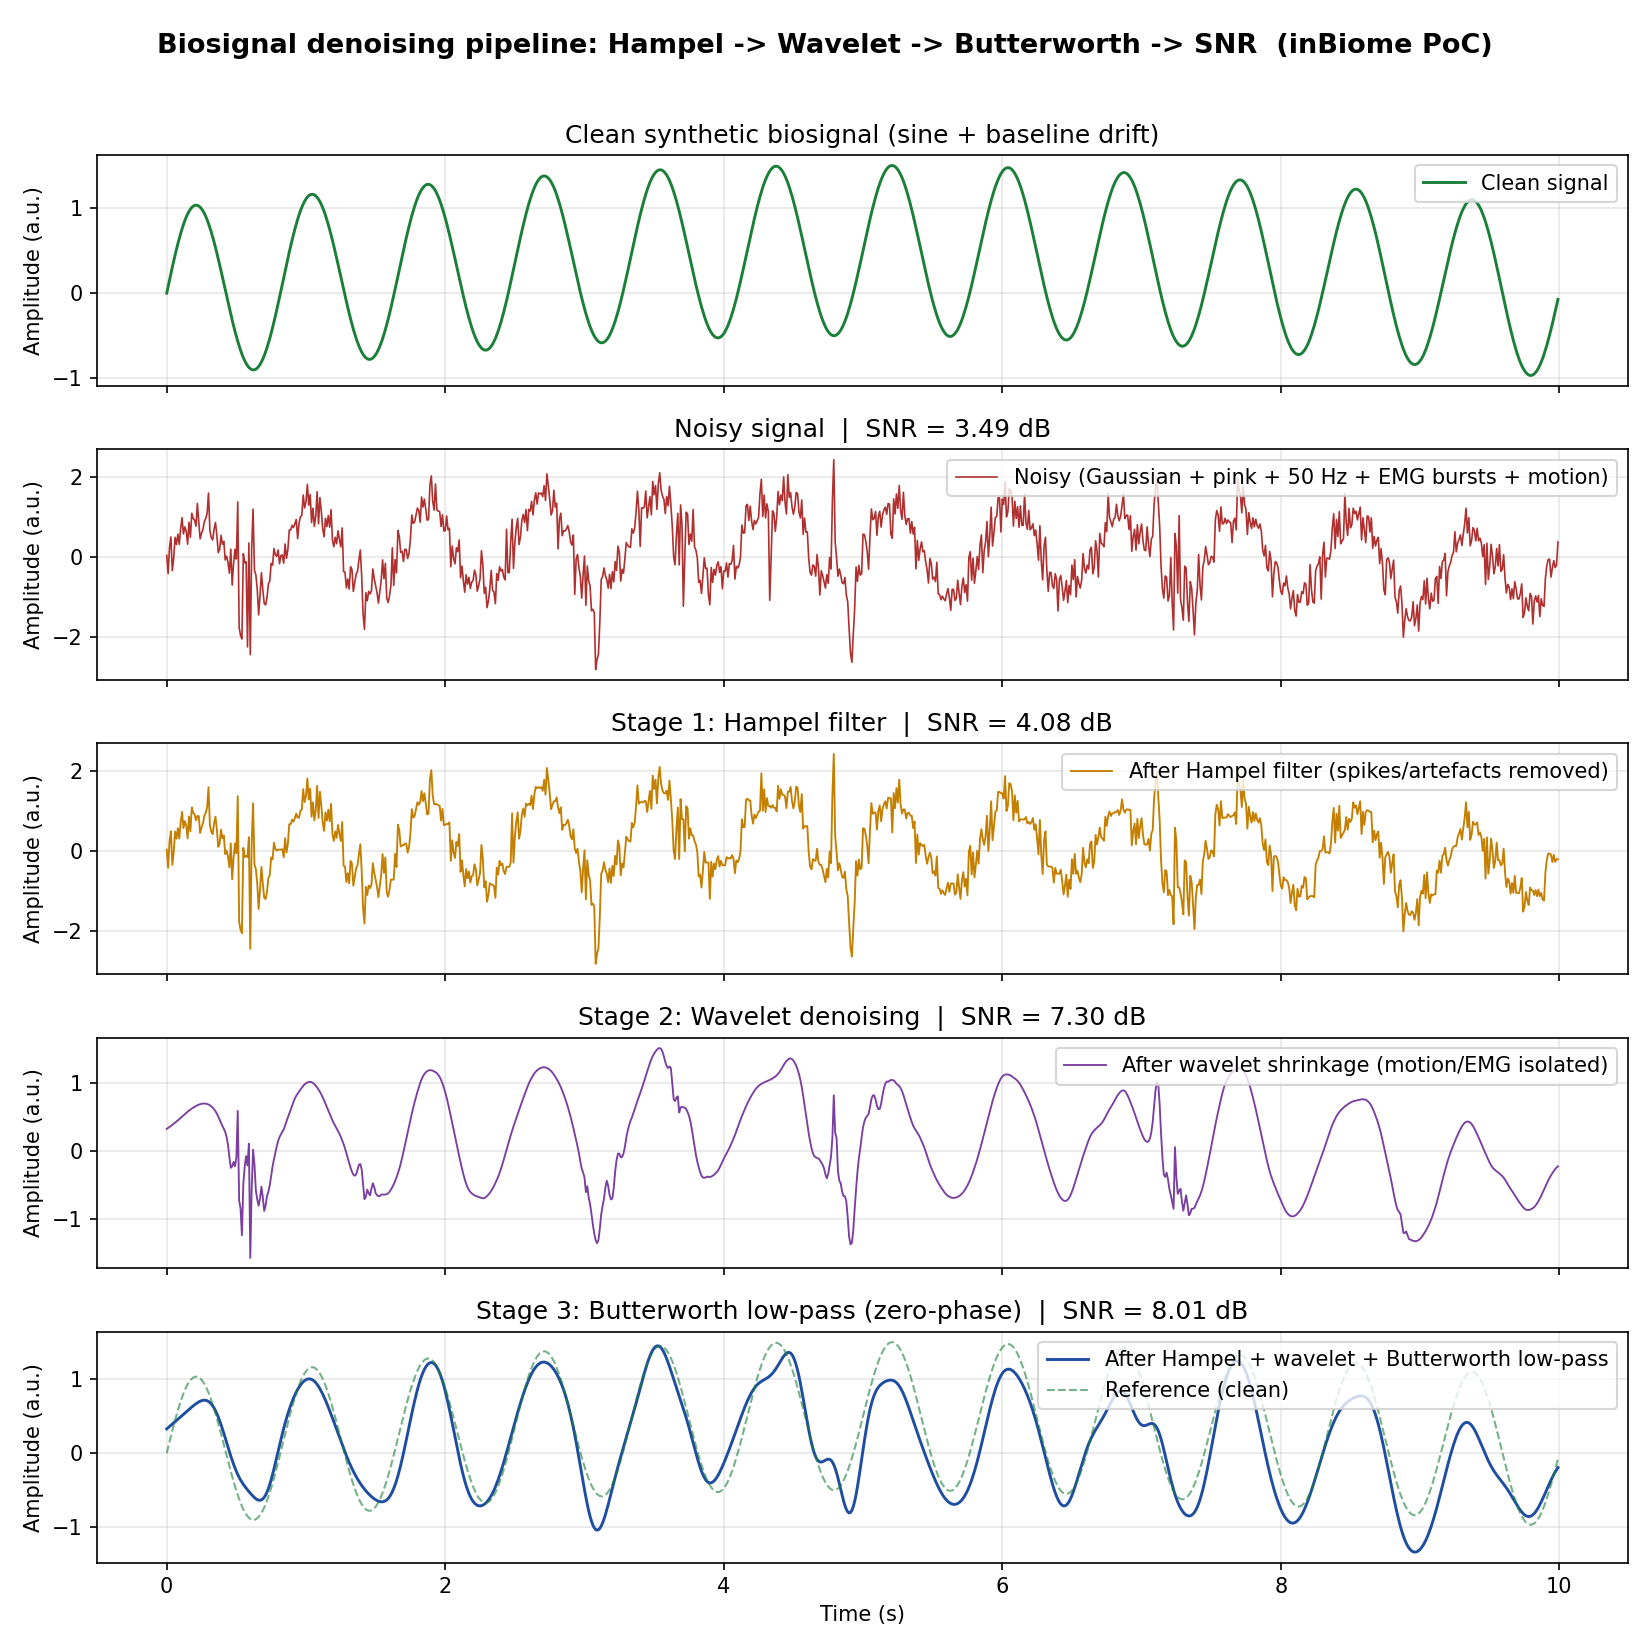
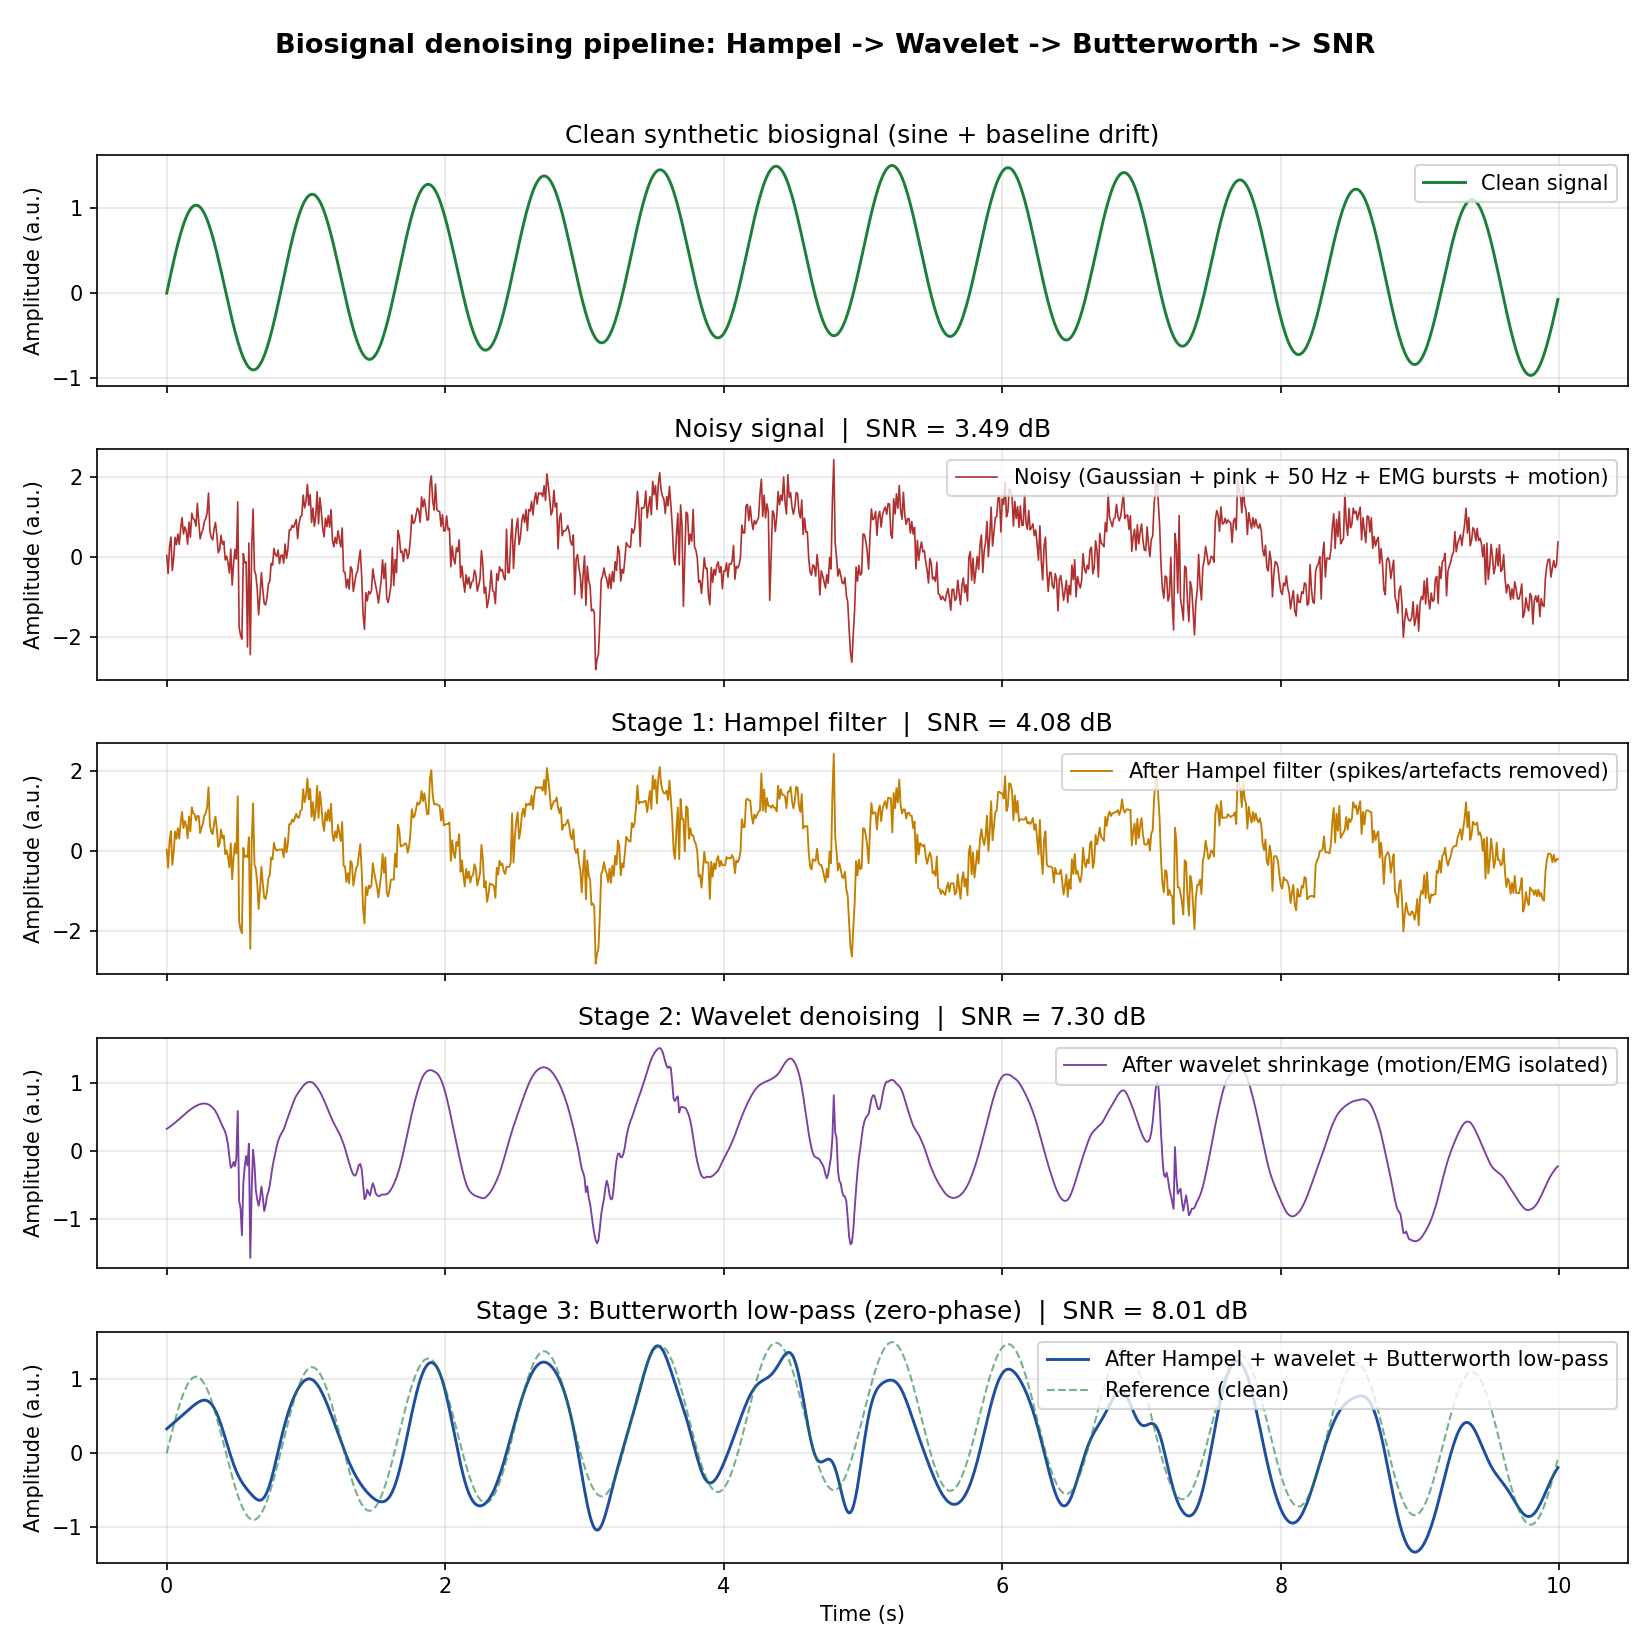
remove inBiome

Changed region(s): [[0.0927, 0.0, 0.8964, 0.0309]]

diff --git a/denoise_demo.py b/denoise_demo.py
@@ -1,7 +1,7 @@
 """
 denoise_demo.py
 ---------------
-Proof-of-concept demonstration of biosignal denoising for inBiome.
+Personal proof-of-concept demonstration of biosignal denoising.
 
 Pipeline
 --------
@@ -26,7 +26,7 @@ Pipeline
 4. Quantify quality at every stage with SNR (dB) against the known
    ground-truth clean signal.
 
-Author: portfolio / inBiome demonstration
+Author: personal pet project
 """
 
 from __future__ import annotations
@@ -509,7 +509,7 @@ def plot_results(t: np.ndarray,
     axes[4].legend(loc="upper right")
     axes[4].grid(alpha=0.3)
 
-    fig.suptitle("Biosignal denoising pipeline: Hampel -> Wavelet -> Butterworth -> SNR  (inBiome PoC)",
+    fig.suptitle("Biosignal denoising pipeline: Hampel -> Wavelet -> Butterworth -> SNR",
                  fontsize=13, fontweight="bold")
     fig.tight_layout(rect=(0, 0, 1, 0.97))
 

diff --git a/README.md b/README.md
@@ -5,7 +5,8 @@ biological signal (such as a pulse-oximetry waveform or a slow temperature
 trace) can be recovered using a layered, classical digital-filtering
 pipeline.
 
-This repository was created as a portfolio piece for **inBiome**.
+This repository is a personal pet project exploring classical biosignal
+denoising techniques.
 
 ---
 
@@ -223,5 +224,4 @@ MIT — feel free to reuse for educational or evaluation purposes.
 
 ---
 
-*This repository is a demonstration project prepared for the
-**Scientific Engineer** role at **inBiome**.*
+*This repository is a personal demonstration/learning project.*
